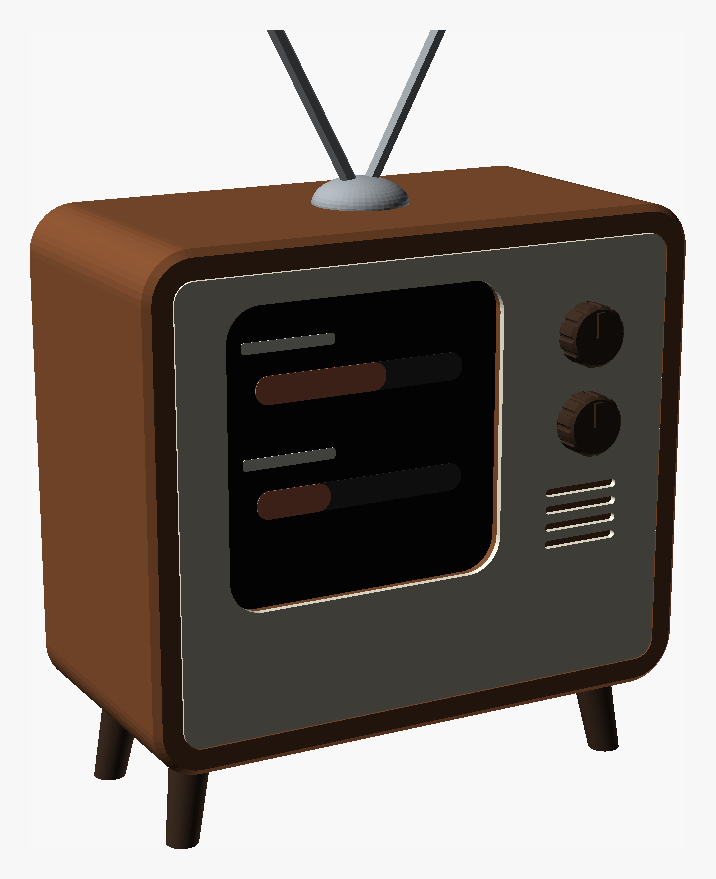
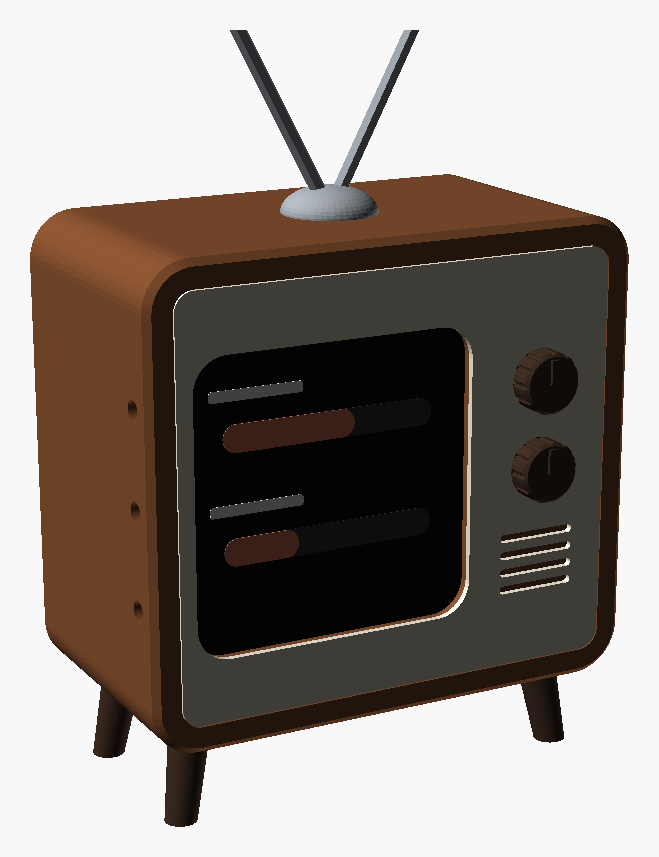
Retro-TV dock: mount the board sideways (USB-C right, buttons left)
The right-angle plug now hides behind the control panel instead of under
the screen, so the case drops the 18 mm chin and becomes slightly wider
than tall (75 x 69 x 42 mm). Buttons are pressed through the left wall,
clip posts move to the board's top and bottom edges, and the cable exits
from the plug's height on the right side. Buttons are now specified in
mounted coordinates.

Claude-Session: https://claude.ai/code/session_01DCgFXNHjuUnVVy5jf825vG

Changed region(s): [[0.0303, 0.0303, 0.9712, 0.9708]]

diff --git a/enclosure/retro_tv/README.md b/enclosure/retro_tv/README.md
@@ -3,31 +3,39 @@
 A small 60s-style television for the Clawdmeter. The screen sits on the
 left behind a rounded TV window. On the right is a control panel with two
 knobs and a speaker grille. It stands upright on four splayed legs, with
-rabbit-ear antennas on top. The right-angle USB-C plug stays hidden under
-the board with its cable heading back. Inside, the cable curves right and
-leaves through a notch low on the right side near the back.
+rabbit-ear antennas on top.
 
-Size: 85 × 73 × 42 mm body. With legs it stands about 86 mm tall, or about
-120 mm to the antenna tips. Run `openscad -D 'part="dims"' -o x.stl retro_tv.scad`
-to print the numbers after you change parameters.
+**The board is mounted a quarter turn from upright:** USB-C faces right and
+the buttons face left.
+- The right-angle plug hides behind the control panel, with its cable
+  heading back and out through a notch low in the right side.
+- The three buttons are pressed through the left side of the case.
+- The board's motion sensor (IMU) turns the picture upright by itself.
 
-| Front | Right side (buttons + cable exit) |
+Size: 75 × 69 × 42 mm body, so slightly wider than tall. With legs it stands
+about 82 mm tall, or about 116 mm to the antenna tips. Run
+`openscad -D 'part="dims"' -o x.stl retro_tv.scad` to print the numbers
+after you change parameters.
+
+| Front | Left side (buttons) |
 |---|---|
-| ![front](preview_front.png) | ![right](preview_right.png) |
+| ![front](preview_front.png) | ![left](preview_left.png) |
 
 `retro_tv.scad` is fully parametric. Open it in [OpenSCAD](https://openscad.org),
 press F5 to preview, and use Window → Customizer to change the numbers.
 
 ## 1. Measure your board first
 
-The `Board — MEASURE THESE` values are guesses. Measure these with calipers:
+The `Board — MEASURE THESE` values are guesses. Measure these with calipers, holding the board upright with USB-C at the bottom:
 
 | Parameter | What to measure |
 |---|---|
 | `board_w`, `board_h` | PCB outline. `board_h` runs from the USB-C edge to the top edge. |
 | `glass_w`, `glass_h`, `glass_t` | Display glass outline, and how far it stands proud of the PCB. |
 | `glass_dv` | Glass centre offset upward from the PCB centre. |
-| `buttons` | For each side button: which side, its height above the PCB bottom, and its depth behind the PCB front. The firmware uses all three (BOOT = Space/voice, KEY = Shift+Tab, PWR = cycle screens / hold to pair). |
+| `buttons` | Measured **as mounted** (USB-C right, buttons left): each button's height above the bottom of the mounted board, and its depth behind the PCB front. The firmware uses all three (BOOT = Space/voice, KEY = Shift+Tab, PWR = cycle screens / hold to pair). |
+| `usb_dx` | USB-C offset from the middle of its edge, if it isn't centred. |
+| `plug_len` | Your right-angle plug's head, from the metal tip's base to the far side of the plastic. It must fit in `panel_w`. |
 | `btn_protrude` | How far the buttons stick out past the PCB edge. |
 
 Then print `part="fit_test"` (the front few mm, about 20 min). It checks the
@@ -46,7 +54,7 @@ All STLs come out already in print orientation:
 | `knobs` | dark brown | Decorative, pinned with a 6 mm stub of 1.75 mm filament. |
 | `legs` | dark brown | 4 legs, all the same length at `tilt = 0`. Press-fit or glue. |
 | `antenna` | grey | Dome + 2 rods. 2 mm metal rod or a bamboo skewer looks better than printed rods. |
-| `plungers` | any | One per side button. The long ones go through the right control panel. |
+| `plungers` | any | One per side button, through the left wall. |
 
 Matte PLA, 0.16–0.2 mm layers, 3–4 walls, 15–20 % gyroid. Walnut-brown,
 cream and dark-brown PLA all exist, so no painting is needed.
@@ -57,12 +65,8 @@ cream and dark-brown PLA all exist, so no painting is needed.
 2. Drop the plungers into the side holes from the inside.
 3. Push the board in from the back, glass first, until it snaps past the four
    clip posts.
-4. Plug in the right-angle USB-C with the cable pointing toward the back of
-   the case. Ordinary L-shaped cables bend over the plug's flat side, so this
-   is the direction you get. Run the cable back, curve it right, and lay it
-   into the notch. `plug_room` (18 mm) is the space under the board. Measure
-   your plug from the metal tip to the far side of the plastic head, and raise
-   it if the head is longer than about 15 mm.
+4. Plug in the right-angle USB-C with the cable pointing toward the back.
+   Run the cable straight back and lay it into the notch on the right side.
 5. Press the back cover on, then press in the legs and the antenna dome.
 
 `tilt` (default 0) shortens the rear legs to lean the screen back if you
